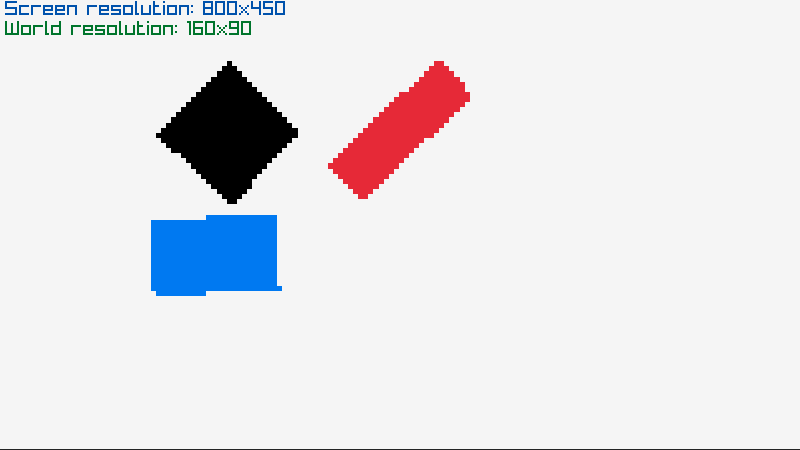
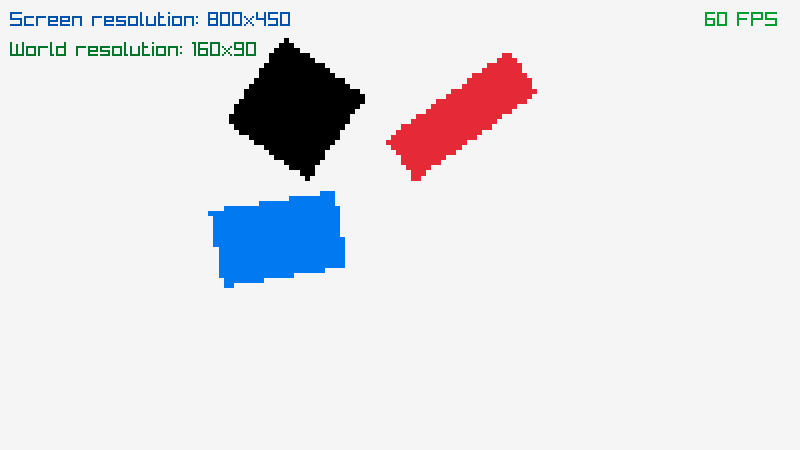
Reviewed example

Changed region(s): [[0.0, 0.0, 0.6875, 0.6844], [0.0, 0.9956, 1.0, 1.0], [0.875, 0.0, 0.9688, 0.0622]]

diff --git a/examples/core/core_2d_camera_smooth_pixelperfect.c b/examples/core/core_2d_camera_smooth_pixelperfect.c
@@ -5,15 +5,16 @@
 *   This example has been created using raylib 3.7 (www.raylib.com)
 *   raylib is licensed under an unmodified zlib/libpng license (View raylib.h for details)
 *
-*   Example contributed by Giancamillo Alessandroni ([discord]NotManyIdeas#9972 - [github]NotManyIdeasDev) and
+*   Example contributed by Giancamillo Alessandroni (@NotManyIdeasDev) and
 *   reviewed by Ramon Santamaria (@raysan5)
 *
-*   Copyright (c) 2021 Giancamillo Alessandroni (NotManyIdeas#9972) and Ramon Santamaria (@raysan5)
+*   Copyright (c) 2021 Giancamillo Alessandroni (@NotManyIdeasDev) and Ramon Santamaria (@raysan5)
 *
 ********************************************************************************************/
 
 #include "raylib.h"
-#include <math.h>
+
+#include <math.h>       // Required for: sinf(), cosf()
 
 int main(void)
 {
@@ -22,33 +23,32 @@ int main(void)
     const int screenWidth = 800;
     const int screenHeight = 450;
 
-    const int virualScreenWidth = 160;
+    const int virtualScreenWidth = 160;
     const int virtualScreenHeight = 90;
 
-    const float virtualRatio = (float)screenWidth/(float)virualScreenWidth;
+    const float virtualRatio = (float)screenWidth/(float)virtualScreenWidth;
 
     InitWindow(screenWidth, screenHeight, "raylib [core] example - smooth pixel-perfect camera");
 
-    Camera2D worldSpaceCamera = { 0 }; // Game world camera
+    Camera2D worldSpaceCamera = { 0 };  // Game world camera
     worldSpaceCamera.zoom = 1.0f;
 
-    Camera2D screenSpaceCamera = { 0 }; //Smoothing camera
+    Camera2D screenSpaceCamera = { 0 }; // Smoothing camera
     screenSpaceCamera.zoom = 1.0f;
 
-    RenderTexture2D renderTexture = LoadRenderTexture(virualScreenWidth, virtualScreenHeight); //This is where we'll draw all our objects.
+    RenderTexture2D target = LoadRenderTexture(virtualScreenWidth, virtualScreenHeight); // This is where we'll draw all our objects.
 
-    Rectangle firstRectangle = { 70.0f, 35.0f, 20.0f, 20.0f };
-    Rectangle secondRectangle = { 90.0f, 55.0f, 30.0f, 10.0f };
-    Rectangle thirdRectangle = { 80.0f, 65.0f, 15.0f, 25.0f };
+    Rectangle rec01 = { 70.0f, 35.0f, 20.0f, 20.0f };
+    Rectangle rec02 = { 90.0f, 55.0f, 30.0f, 10.0f };
+    Rectangle rec03 = { 80.0f, 65.0f, 15.0f, 25.0f };
 
-    //The renderTexture's height is flipped (in the source Rectangle), due to OpenGL reasons.
-    Rectangle renderTextureSource = { 0.0f, 0.0f, (float)renderTexture.texture.width, (float)-renderTexture.texture.height };
-    Rectangle renderTextureDest = { -virtualRatio, -virtualRatio, screenWidth + (virtualRatio*2), screenHeight + (virtualRatio*2) };
+    // The target's height is flipped (in the source Rectangle), due to OpenGL reasons
+    Rectangle sourceRec = { 0.0f, 0.0f, (float)target.texture.width, -(float)target.texture.height };
+    Rectangle destRec = { -virtualRatio, -virtualRatio, screenWidth + (virtualRatio*2), screenHeight + (virtualRatio*2) };
 
     Vector2 origin = { 0.0f, 0.0f };
 
     float rotation = 0.0f;
-    float degreesPerSecond = 60.0f;
 
     float cameraX = 0.0f;
     float cameraY = 0.0f;
@@ -61,16 +61,16 @@ int main(void)
     {
         // Update
         //----------------------------------------------------------------------------------
-        rotation += degreesPerSecond*GetFrameTime(); // Rotate the rectangles.
+        rotation += 60.0f*GetFrameTime();   // Rotate the rectangles, 60 degrees per second
 
-        // Make the camera move to demonstrate the effect.
+        // Make the camera move to demonstrate the effect
         cameraX = (sinf(GetTime())*50.0f) - 10.0f;
         cameraY = cosf(GetTime())*30.0f;
 
-        // Set the camera's target to the values computed above.
+        // Set the camera's target to the values computed above
         screenSpaceCamera.target = (Vector2){ cameraX, cameraY };
 
-        //Round worldSpace coordinates, keep decimals into screenSpace coordinates.
+        // Round worldSpace coordinates, keep decimals into screenSpace coordinates
         worldSpaceCamera.target.x = (int)screenSpaceCamera.target.x;
         screenSpaceCamera.target.x -= worldSpaceCamera.target.x;
         screenSpaceCamera.target.x *= virtualRatio;
@@ -83,47 +83,35 @@ int main(void)
 
         // Draw
         //----------------------------------------------------------------------------------
-        BeginDrawing();
-        ClearBackground(RED); // This is for debug purposes. If you see red, then you've probably done something wrong.
-
-        BeginTextureMode(renderTexture);
-        BeginMode2D(worldSpaceCamera);
-        ClearBackground(RAYWHITE); // This is the color you should see as background color.
-
-        // Draw the rectangles
-        DrawRectanglePro(firstRectangle, origin, rotation, BLACK);
-        DrawRectanglePro(secondRectangle, origin, -rotation, RED);
-        DrawRectanglePro(thirdRectangle, origin, rotation + 45.0f, BLUE);
-
-        EndMode2D();
+        BeginTextureMode(target);
+            ClearBackground(RAYWHITE);
+            
+            BeginMode2D(worldSpaceCamera);
+                DrawRectanglePro(rec01, origin, rotation, BLACK);
+                DrawRectanglePro(rec02, origin, -rotation, RED);
+                DrawRectanglePro(rec03, origin, rotation + 45.0f, BLUE);
+            EndMode2D();
         EndTextureMode();
+            
+        BeginDrawing();
+            ClearBackground(RED);
 
-        BeginMode2D(screenSpaceCamera);
+            BeginMode2D(screenSpaceCamera);
+                DrawTexturePro(target.texture, sourceRec, destRec, origin, 0.0f, WHITE);
+            EndMode2D();
 
-        // Draw the render texture with an offset of 1 worldSpace unit/pixel, so that the content behind the renderTexture is not shown.
-        DrawTexturePro(
-            renderTexture.texture,
-            renderTextureSource,
-            renderTextureDest,
-            origin,
-            0.0f,
-            WHITE
-        );
-
-        EndMode2D();
-
-        //Debug info
-        DrawText("Screen resolution: 800x450", 5, 0, 20, DARKBLUE);
-        DrawText("World resolution: 160x90", 5, 20, 20, DARKGREEN);
-        DrawFPS(screenWidth - 75, 0);
+            DrawText(TextFormat("Screen resolution: %ix%i", screenWidth, screenHeight), 10, 10, 20, DARKBLUE);
+            DrawText(TextFormat("World resolution: %ix%i", virtualScreenWidth, virtualScreenHeight), 10, 40, 20, DARKGREEN);
+            DrawFPS(GetScreenWidth() - 95, 10);
         EndDrawing();
         //----------------------------------------------------------------------------------
     }
 
     // De-Initialization
     //--------------------------------------------------------------------------------------
-    UnloadRenderTexture(renderTexture); // RenderTexture unloading
-    CloseWindow();        // Close window and OpenGL context
+    UnloadRenderTexture(target);    // Unload render texture
+    
+    CloseWindow();                  // Close window and OpenGL context
     //--------------------------------------------------------------------------------------
 
     return 0;
